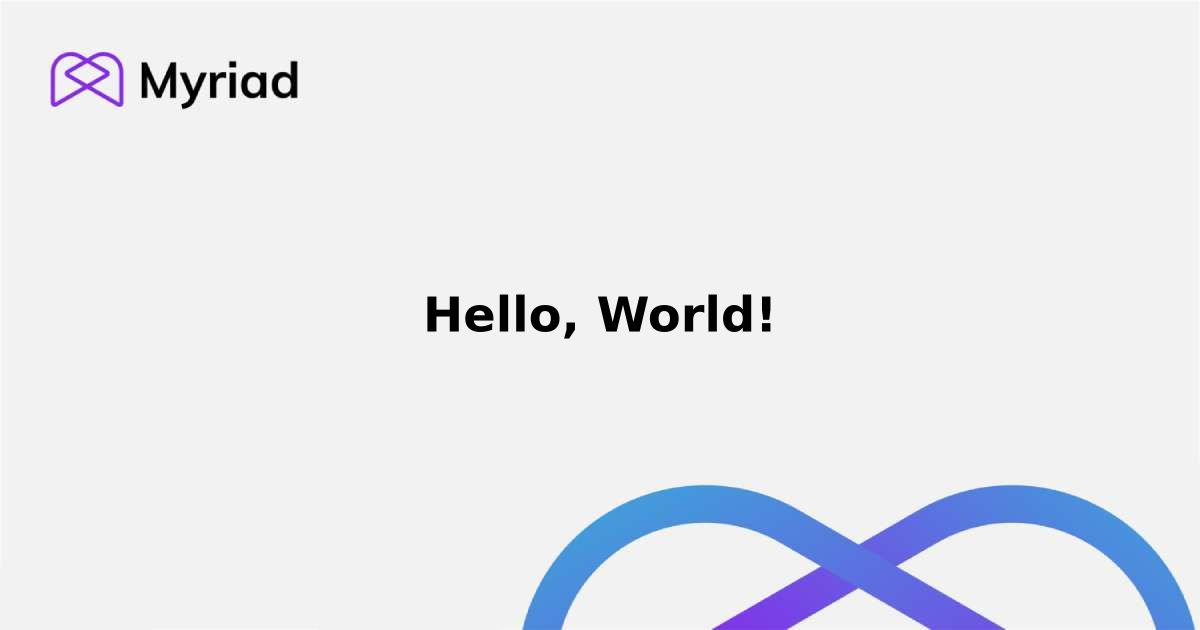
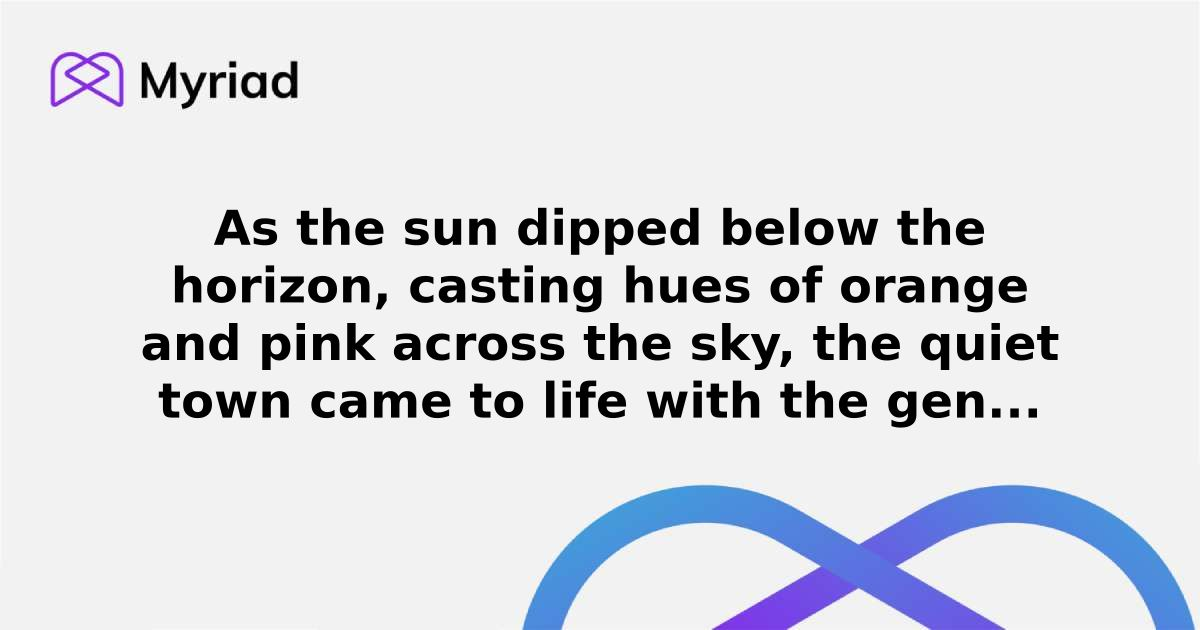
feat: improve the script

Changed region(s): [[0.0925, 0.3317, 0.8942, 0.6937]]

diff --git a/index.ts b/index.ts
@@ -1,42 +1,97 @@
-import sharp from 'sharp';
-import { createCanvas, registerFont } from 'canvas';
+import sharp from "sharp";
+import { createCanvas, registerFont, CanvasRenderingContext2D } from "canvas";
 
-async function addTextToImage(imagePath: string, outputPath: string, text: string, fontPath: string, fontSize: number = 48) {
+const maxWidth = 125;
+
+function wrapText(
+  context: CanvasRenderingContext2D,
+  text: string,
+  maxWidth: number,
+) {
+  const words = text.split(" ");
+  let lines: string[] = [];
+  let currentLine: string = words[0];
+
+  for (let i = 1; i < words.length; i++) {
+    let word = words[i];
+    let width = context.measureText(currentLine + " " + word).width;
+    if (width < maxWidth) {
+      currentLine += " " + word;
+    } else {
+      lines.push(currentLine);
+      currentLine = word;
+    }
+  }
+  lines.push(currentLine); // Push the last line
+  return lines;
+}
+
+function cutAndAddEllipsis(text: string) {
+  if (text.length <= maxWidth) {
+    return text;
+  }
+
+  return text.substring(0, maxWidth) + "...";
+}
+
+async function addTextToImage(
+  imagePath: string,
+  outputPath: string,
+  text: string,
+  fontPath: string,
+  fontSize: number = 48,
+) {
   try {
+    // Cut the text if needed and add an ellipsis
+    text = cutAndAddEllipsis(text);
+
     // Load the original image to get its dimensions
     const originalImage = await sharp(imagePath).metadata();
 
     // Create a canvas that matches the original image's dimensions
     const canvas = createCanvas(originalImage.width!, originalImage.height!);
-    const context = canvas.getContext('2d');
+    const context = canvas.getContext("2d");
 
     // Optional: Register a custom font
-    registerFont(fontPath, { family: 'CustomFont' });
+    registerFont(fontPath, { family: "CustomFont" });
     context.font = `${fontSize}px CustomFont`;
-    context.textAlign = 'center';
-    context.textBaseline = 'middle';
-    context.fillStyle = 'black'; // Text color
+    context.fillStyle = "black"; // Text color
+    context.textAlign = "left";
+    context.textBaseline = "top";
 
-    // Calculate text position (center of the image)
-    const textX = canvas.width / 2;
-    const textY = canvas.height / 2;
+    const maxWidth = originalImage.width! * 0.8; // Max width for the text
+    const lineHeight = fontSize * 1.2; // Line height
+    const lines = wrapText(context, text, maxWidth);
+    const textHeight = lines.length * lineHeight; // Calculate the total height of the text block
 
-    // Add text to the canvas
-    context.fillText(text, textX, textY);
+    // Calculate the starting Y position to center the text block
+    const startY = (originalImage.height! - textHeight) / 2;
+
+    // Draw each line of text
+    lines.forEach((line, i) => {
+      const x = (originalImage.width! - context.measureText(line).width) / 2; // Center each line
+      const y = startY + i * lineHeight;
+      context.fillText(line, x, y);
+    });
 
     // Convert the canvas to a Buffer
     const textBuffer = canvas.toBuffer();
 
     // Overlay the text image on the original image
     await sharp(imagePath)
-      .composite([{ input: textBuffer, blend: 'over' }])
+      .composite([{ input: textBuffer, blend: "over" }])
       .toFile(outputPath);
 
-    console.log('Image processed and saved to:', outputPath);
+    console.log("Image processed and saved to:", outputPath);
   } catch (error) {
-    console.error('Error processing image:', error);
+    console.error("Error processing image:", error);
   }
 }
 
 // Example usage - adjust fontPath and imagePath as necessary
-addTextToImage('./template.jpg', './output-image-with-text.jpg', 'Hello, World!', './font.otf');
+addTextToImage(
+  "./template.jpg",
+  "./output-image-with-text.jpg",
+  "As the sun dipped below the horizon, casting hues of orange and pink across the sky, the quiet town came to life with the gentle...",
+  "./font.otf",
+);

diff --git a/README.md b/README.md
@@ -38,20 +38,8 @@ npm install
 4. Run the script to add text to your image (make sure to replace `input-image.jpg` with the path to your image and `your-text` with the text you want to overlay):
 
 ```bash
-npx ts-node addTextToImage.ts ./input-image.jpg ./output-image.jpg "Your Text" "./path/to/your/font.ttf"
+npm run script
 ```
-
-## Usage
-
-Explain how to use your project, including examples of common use cases.
-
-### Adding Text to an Image
-
-```bash
-npx ts-node addTextToImage.ts <input-image-path> <output-image-path> "<text>" "<font-path>"
-```
-
-Make sure to replace `<input-image-path>`, `<output-image-path>`, `<text>`, and `<font-path>` with your actual file paths and text.
 
 ## License
 
